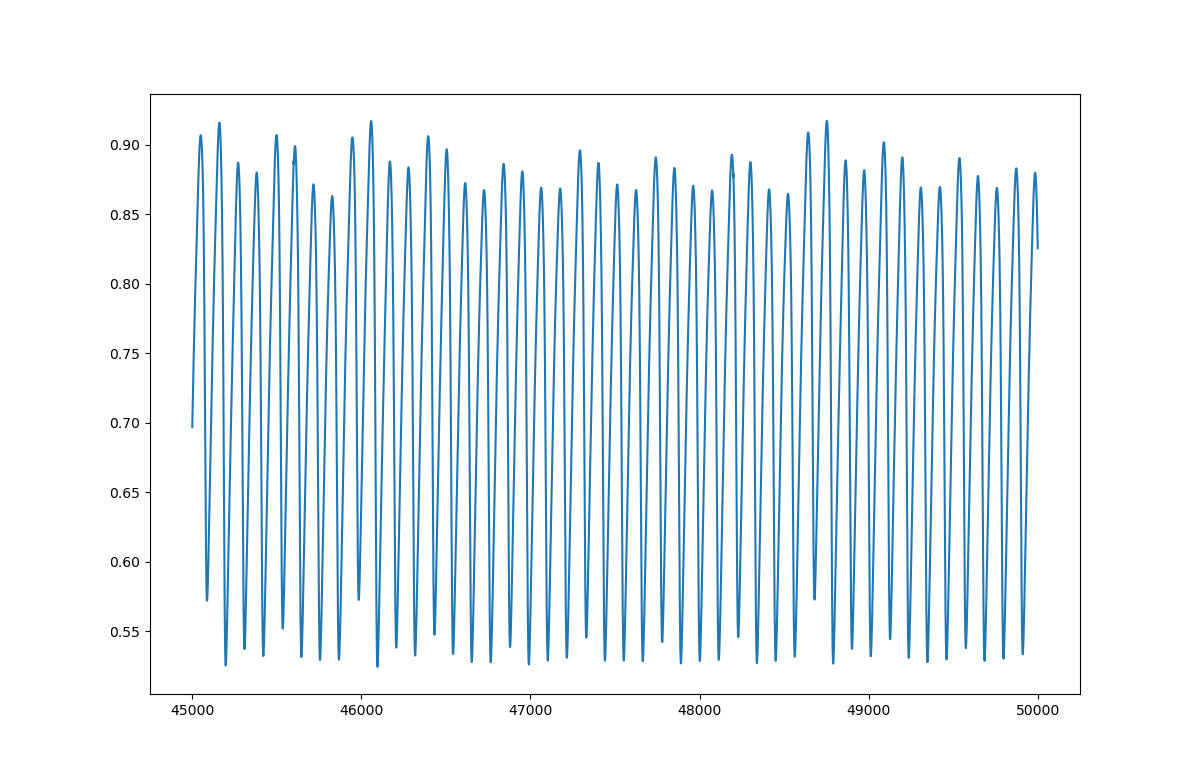
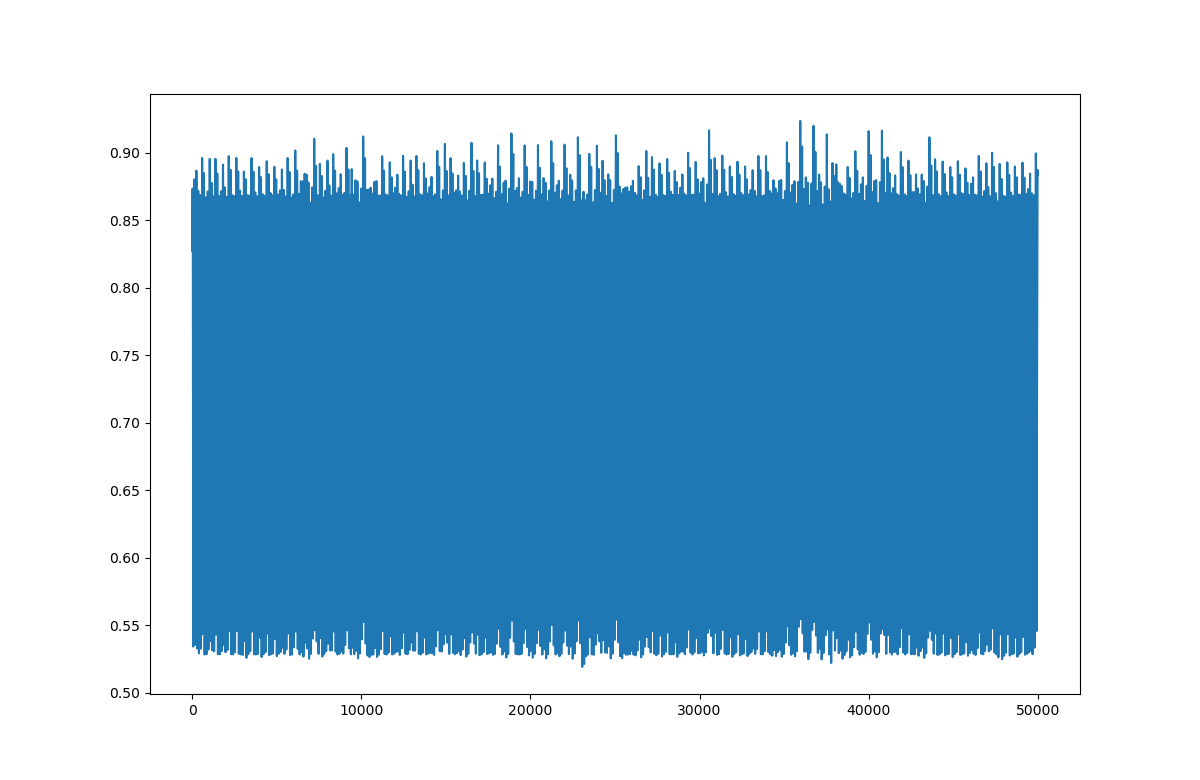
made fine trajectory and calced lyapunov exponent

diff --git a/code/stagger_and_step.cpp b/code/stagger_and_step.cpp
@@ -33,20 +33,15 @@ int main(){
     double nu = 0.00018;
     double beta = 0.41616;
     std::complex<double> f = std::complex<double>(1.0,1.0) * 5.0 * 0.001;
-    double ddt = 0.01;
+    double dt = 0.01;
     double t_0 = 0;
     double t = 50000;
     double latter = 200;
     Eigen::VectorXcd x_0 = npy2EigenVec("../../initials/beta0.41616nu0.00018_1.05286e+07period.npy");
 
-    double epsilon=4E-2; // 4~5E-2 is appropriate
-    int skip = 1000;
-    double check_sec = 1300;
-    double progress_sec = 200;
-    int threads = omp_get_max_threads();
-    std::cout << threads << "threads" << std::endl;
+    //generating laminar sample for detection
+    ShellModel SM(nu, beta, f, dt, t_0, t, latter, x_0);
 
-    ShellModel SM(nu, beta, f, ddt, t_0, t, latter, x_0);
     Eigen::MatrixXcd laminar = SM.get_trajectory_();
     int numCols = laminar.cols() / 10;
     Eigen::MatrixXcd laminar_sample(laminar.rows(), numCols);
@@ -59,12 +54,19 @@ int main(){
     nu = 0.00018;
     latter = 1;
     t = 50000;
-    t_0 = 46600;
+    dt = 0.002;
+    t_0 = 0;
     // Eigen::MatrixXcd loaded = npy2EigenMat("../../generated_lam/generated_laminar_beta_0.418nu_0.00018_47000period1300check200progresseps0.04.npy");
     // x_0 = loaded.block(0, t_0*100 - 1, 14, 1);
-    x_0 = npy2EigenVec("../../initials/beta0.418_nu0.00018_3000period.npy");
+    x_0 = npy2EigenVec("../../initials/beta0.417_nu0.00018_7000period_dt0.002.npy");
+    double epsilon=4E-2; // 4~5E-2 is appropriate
+    int skip = 1000;
+    double check_sec = 1300;
+    double progress_sec = 200;
+    int threads = omp_get_max_threads();
+    std::cout << threads << "threads" << std::endl;
 
-    LongLaminar LL(nu, beta, f, ddt, t_0, t, latter, x_0, laminar_sample, epsilon, skip, check_sec, progress_sec, threads);
+    LongLaminar LL(nu, beta, f, dt, t_0, t, latter, x_0, laminar_sample, epsilon, skip, check_sec, progress_sec, threads);
     Eigen::MatrixXcd calced_laminar = LL.stagger_and_step_();
     plt::figure_size(1200, 780);
     // Add graph title
@@ -84,7 +86,7 @@ int main(){
     plt::save(filename);
 
     oss.str("");
-    oss << "../../generated_lam/generated_laminar_beta_" << beta << "nu_" << nu <<"_"<< reach << "period" << check_sec << "check" << progress_sec << "progress" << "eps" << epsilon << ".npy";
+    oss << "../../generated_lam/generated_laminar_beta_" << beta << "nu_" << nu <<"_dt"<< dt << "_" << reach << "period" << check_sec << "check" << progress_sec << "progress" << "eps" << epsilon << ".npy";
     std::string fname = oss.str(); // 文字列を取得する
     std::cout << "saving as " << fname << std::endl;
     EigenMt2npy(calced_laminar, fname);

diff --git a/code/lyapunov.cpp b/code/lyapunov.cpp
@@ -29,22 +29,23 @@ VectorXd rungeKuttaJacobian(const VectorXd& state, const MatrixXd& jacobian, dou
 // メイン関数
 int main() {
     auto start = std::chrono::system_clock::now(); // 計測開始時間
-    double nu = 1E-8;
-    double beta = 0.5;
+    double nu = 0.00018;
+    double beta = 0.417;
     std::complex<double> f = std::complex<double>(1.0,1.0) * 5.0 * 0.001;
-    double dt = 0.0001;
+    double dt = 0.002;
     double t_0 = 0;
-    double t = 3000;
+    double t = 50000;
     double latter = 1;
     int threads = omp_get_max_threads();
     Eigen::VectorXcd x_0 = npy2EigenVec("../../initials/beta0.5_nu1e-08_24dim_period.npy");
     
     ShellModel SM(nu, beta, f, dt, t_0, t, latter, x_0);
+    // std::cout << "calculating trajectory" << std::endl;
+    // Eigen::MatrixXcd rawData = SM.get_trajectory_();
     // データの読み込みをここに記述
-    // Eigen::MatrixXcd rawData = npy2EigenMat("../../generated_lam/generated_laminar_beta_0.417nu_0.00018_50000period1300check200progresseps0.05.npy");
+    Eigen::MatrixXcd rawData = npy2EigenMat("../../generated_lam/generated_laminar_beta_0.417nu_0.00018_dt0.002_50000period1300check200progresseps0.04.npy");
     
-    std::cout << "calculating trajectory" << std::endl;
-    Eigen::MatrixXcd rawData = SM.get_trajectory_();
+    
     // パラメータの設定（例）
     int dim = rawData.rows() - 1;
     // データの整形(実関数化)
@@ -86,7 +87,7 @@ int main() {
         Eigen::VectorXd diag = R.diagonal().cwiseAbs().array().log();
         sum += diag;
         if (i % 10000 == 0){
-            std::cout << sum.array() / (i+1) / dt << std::endl;
+            std::cout << "\r" <<  sum(0).array() / (i+1) / dt << std::flush;
         }
 
     }

diff --git a/code/good_initialvalue.cpp b/code/good_initialvalue.cpp
@@ -36,14 +36,15 @@ int main(){
     }
 
     // set up for search
-    t=3000;
+    t=7000;
     latter = 1;
     nu = 0.00018;
-    beta = 0.42;
-    x_0 = npy2EigenVec("../../initials/beta0.419_nu0.00018_3000period.npy");
+    beta = 0.417;
+    ddt = 0.002;
+    x_0 = npy2EigenVec("../../initials/beta0.417_nu0.00018_3000period_dt0.002.npy");
     int num_of_candidates = 32;
     int skip = 100;
-    double epsilon = 4E-2;
+    double epsilon = 3E-2;
     int threads = omp_get_max_threads();
     std::cout << threads << "threads" << std::endl;
 
@@ -79,7 +80,7 @@ int main(){
     }
     
     std::ostringstream oss;
-    oss << "../../initials/beta" << beta << "_nu" << nu<< "_" << static_cast<int>(longest+0.5) << "period.npy";  // 文字列を結合する
+    oss << "../../initials/beta" << beta << "_nu" << nu<< "_" << static_cast<int>(longest+0.5) << "period_dt" << ddt << ".npy";  // 文字列を結合する
     std::string fname = oss.str(); // 文字列を取得する
     std::cout << "saving as " << fname << std::endl;
     EigenVec2npy(LL.get_x_0_(), fname);

diff --git a/code/phase_diff.cpp b/code/phase_diff.cpp
@@ -33,11 +33,13 @@ int main(){
     double ddt = 0.01;
     double t_0 = 0;
     double t = 5e+4;
+
     double latter = 1;
     int threads = omp_get_max_threads();
 
     //make pairs of shells to observe phase difference(num begins from 1)
     std::vector<std::pair<int, int>> sync_pairs;
+
     sync_pairs.push_back(std::make_pair(1, 4));
     sync_pairs.push_back(std::make_pair(1, 7));
     sync_pairs.push_back(std::make_pair(1, 10));
@@ -59,6 +61,7 @@ int main(){
     // sync_pairs.push_back(std::make_pair(8, 11));
     // sync_pairs.push_back(std::make_pair(8, 14));
     // sync_pairs.push_back(std::make_pair(11, 14));
+
     
     
     Eigen::VectorXcd x_0 = npy2EigenVec("../../initials/beta0.41616nu0.00018_1.00923e+06period.npy");
